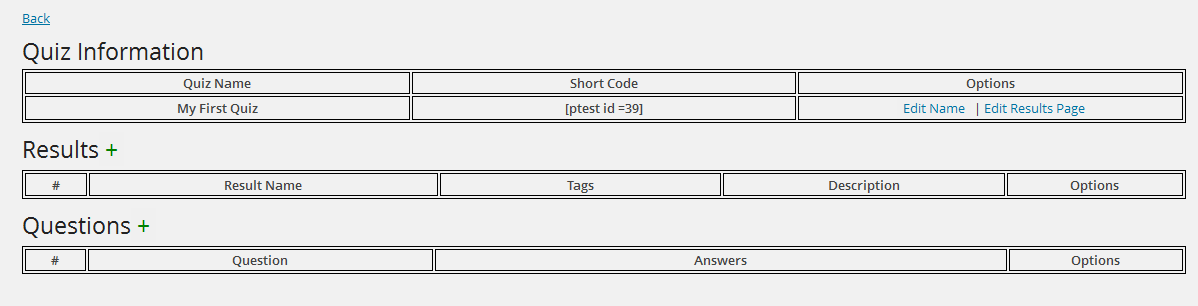
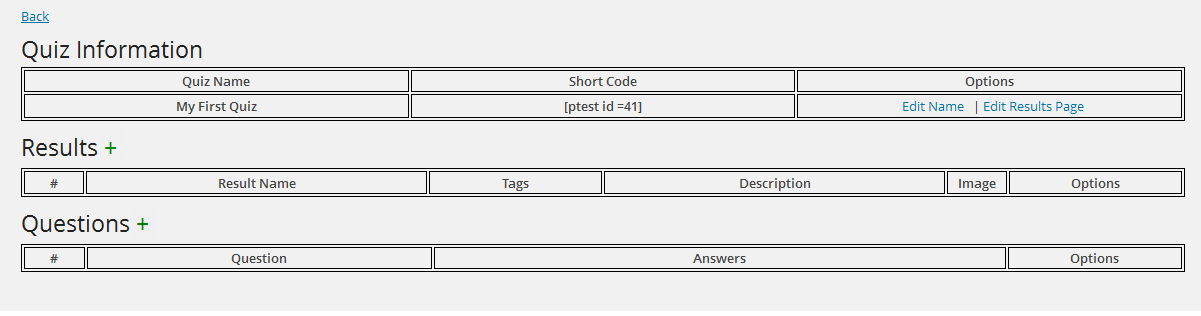
folder name changed to trpt-personality-test

Changed region(s): [[0.0, 0.4412, 0.9883, 0.9118], [0.0, 0.1176, 0.9883, 0.4118], [0.0, 0.0294, 0.0618, 0.0882]]

diff --git a/personality-test-admin.js b/personality-test-admin.js
@@ -1,3 +1,5 @@
+//Built by Matt from http://www.webmaster-source.com/2013/02/06/using-the-wordpress-3-5-media-uploader-in-your-plugin-or-theme/
+
 jQuery(document).ready(function($){
     var custom_uploader;
  

diff --git a/personality-test-help.php b/personality-test-help.php
@@ -1,3 +1,7 @@
+<?php
+	global $ptest_prefix;
+?>
+
 <script type = "text/javascript">
 	function addMargin(){
 		window.scrollTo(0, window.pageYOffset - 30);
@@ -24,11 +28,11 @@
 	<ol class = "ptest-help-ol">
 		<li>
 			<a name = "qi">Quick Introduction</a>
-			<p class = "ptest-help-ol-p">Welcome to Ptest, an easy to use interest and personality test creator. Select <a href = "<?php echo add_query_arg(array('page' => 'Quiz'), admin_url('admin.php'))?>" >Quiz List</a> if you want to get started right away. If not, continue to <a href = "#create">Creating a Quiz</a> to continue with this tutorial</p>
+			<p class = "ptest-help-ol-p">Welcome to TRPtest, an easy to use interest and personality test creator. Select <a href = "<?php echo add_query_arg(array('page' =>  $ptest_prefix . 'Quiz'), admin_url('admin.php'))?>" >Quiz List</a> if you want to get started right away. If not, continue to <a href = "#create">Creating a Quiz</a> to continue with this tutorial</p>
 		</li>
 		<li>
 			<a name = "create">Creating a Quiz</a>
-			<p class = "ptest-help-ol-p">Creating a quiz is simple. First, select <a href = "<?php echo add_query_arg(array('page' => 'Quiz'), admin_url('admin.php'))?>" >Quiz List</a> from the dropdown in the admin menu, or click the link. You will be taken to the quiz list screen. <img style = "width: 80%" src = "<?php echo plugins_url( "img/empty-quiz-list.png", __FILE__) ?>"></P>
+			<p class = "ptest-help-ol-p">Creating a quiz is simple. First, select <a href = "<?php echo add_query_arg(array('page' => $ptest_prefix . 'Quiz'), admin_url('admin.php'))?>" >Quiz List</a> from the dropdown in the admin menu, or click the link. You will be taken to the quiz list screen. <img style = "width: 80%" src = "<?php echo plugins_url( "img/empty-quiz-list.png", __FILE__) ?>"></P>
 			<p class = "ptest-help-ol-p">Select the <span class = "ptest-add-symbol">+</span> next to Quiz List to add a new quiz to your database. <div><img style = "width:80%" src = "<?php echo plugins_url("img/adding-a-quiz.png", __FILE__) ?>"></div></p>
 			<p class = "ptest-help-ol-p">Type in any name you want (you can change it later) and select Save. The quiz will be immediately added to your list of quizzes! If you are in any popup screen and do not want to make changes, you can just click outside of the popup to close it. To delete it, select delete. To add questions and results or to change its name, select <a href = "#modscreen">Modify</a>. <div><img style = "width:80%" src = "<?php echo plugins_url("img/added-quiz.png", __FILE__) ?>"></div></p>
 		</li>
@@ -40,14 +44,15 @@
 		<li>
 			<a name = "addr">Adding Results</a>
 			<p class = "ptest-help-ol-p">Select the <span class = "ptest-add-symbol">+</span> next to Results in order to add a result. <div><img style = "width:80%" src = "<?php echo plugins_url("img/add-a-result.png", __FILE__)?>"></div></p>
-			<p class = "ptest-help-ol-p">There are 3 inputs you need to fill out.
+			<p class = "ptest-help-ol-p">There are 4 inputs you need to fill out.
 				<ol class = "ptest-help-ol-p">
 					<li>Result Name: Result Name is the name of your result. For example, if you had a "Which Star Wars character are you?" personality test and you wanted one of the results to be Darth Vader, you would write Darth Vader as the name of this result.</li>
 					<li>Tags: Tags are a unique identifier that determine how the results will match up with the questions. If a tag in a result and a tag in a question match, then the value of the question will be added to that result. The result with the highest point value at the end of the quiz will be the result shown. If this doesn't make sense now, it will be explained more thoroughly in <a href = "#addq">Adding Questions</a>. Tags can be called anything you like, as only the quiz creator will be able to see them. The option to have multiple tags is there, but currently serves no purpose (it does in questions!), it will hopefully be used in a future build.
 					</li>
 					<li>Description: This is where you want to write what gets displayed under this result. The description will be displayed along with Result Name on completion of the quiz.</li>
+					<li>Image: An optional image that you can display along with your result. The image uploader is Wordpress's default image uploader. Simply select Upload Image and then choose the image you would like to view along with this result from the Media Library, or select Upload Files to upload a new image.</li>
 				</ol></p>
-			<p class = "ptest-help-ol-p">Once you have filled out all the inputs, select Save and the new result will be added to your quiz. Normally, you would not want the same result to show up every time, so adding a few more results is probably a good idea. You can add as many results as you want. Remember to make all the tags unique so the point values from questions get added to the correct result. To make changes to any result, you can select Edit. When you have finished adding results, head over to <a href = "#addq">Adding Questions</a></p>
+			<p class = "ptest-help-ol-p">Once you have filled out all the inputs, select Save and the new result will be added to your quiz. Normally, you would not want the same result to show up every time, so adding a few more results is probably a good idea. You can add as many results as you want. To view the image you've added to a result, click the thumbnail inside the image column and a popup will show your image. Remember to make all the tags unique so the point values from questions get added to the correct result. To make changes to any result, you can select Edit. When you have finished adding results, head over to <a href = "#addq">Adding Questions</a></p>
 		</li>
 		<li>
 			<a name = "addq">Adding Questions</a>
@@ -65,10 +70,11 @@
 		<li>
 			<a name = "trp">The Results Page</a>
 			<p class = "ptest-help-ol-p">The Results Page deals with some HTML, if you do not know HTML and are fine with how the default results page displays, skip to <a href = #atw">Adding the Quiz to Your Website</a>. Still here? Then click Edit Results Page up in the Quiz Information box on the Modify page. <div><img style = "width:80%" src = "<?php echo plugins_url("img/edit-results-page.png", __FILE__)?>"></div> </p>
-			<p class = "ptest-help-ol-p">Each quiz you make has its own results page, and its HTML is displayed here. The box is a giant input where you can write whatever HTML you want and it will show up as your results page after taking the test. There are a few shortcodes.
+			<p class = "ptest-help-ol-p">Each quiz you make has its own results page, and its HTML is displayed here. The box is a giant input where you can write whatever HTML you want and it will show up as your results page after taking the test. You can use the style attribute to style this page as normal. There are a few shortcodes.
 				<ol class = "ptest-help-ol-p">
 					<li>[result]: [result] is the name of your result, so if your winning result's name was Darth Vader, [result] would be replaced by Darth Vader when viewing the results page.
 					<li>[description]: [description] is the description of your result. Whatever you wrote for the result's description will replace [description] when viewing the results page.
+					<li>[imageurl]: [imageurl] is the url of the image you saved to the result. To use it, use the <img> tag and set the src equal to [imageurl]. You can style it by using the style attribute on the <img> tag.</li>
 				</ol></p>
 			<p class = "ptest-help-ol-p"><div><img style = "width:80%" src = "<?php echo plugins_url("img/editing-results-page.png", __FILE__)?>"></div></p>
 			<p class = "ptest-help-ol-p">When finished, select Save Changes and it will save your changes as the new Results Page. If you want to go back to your most recently saved results page, select Reset. However, be warned that once you confirm Reset, there is no way to return to your changes.</p>
@@ -80,6 +86,6 @@
 		</li>
 		<li>
 			<a name = "fi">Further Information</a>
-			<p class = "ptest-help-ol-p">If you want to make a suggestion or a request for new functionality, or you've found a bug and you'd like it fixed, or you just want someone to talk to, send us an email at admin@trurek.com, we'll do our best to respond! Thanks for using Ptest!</p>
+			<p class = "ptest-help-ol-p">If you want to make a suggestion or a request for new functionality, or you've found a bug and you'd like it fixed, or you just want someone to talk to, send us an email at admin@trurek.com, we'll do our best to respond! Thanks for using TRPtest!</p>
 		</li>
 </div>

diff --git a/personality-test.php b/personality-test.php
@@ -1,10 +1,10 @@
 <?php
 /* 
-	Plugin Name: Personality Test
+	Plugin Name: TRPtest
 	Description: Plugin for creating easily modifiable Personality, Interest, or Which Character are You? tests and quizzes.
-	Author: J. Levy and B. Bower
+	Author: TruRek
 	Version: 1.0 
-	Author URI: http://www.trurek.com
+	Author URI: WIP
 	*/  
 
 	
@@ -26,7 +26,7 @@
       
     function ptest_admin_actions() {  
 		global $ptest_prefix;
-        add_menu_page("Personality Test", "Ptest Dashboard", 'manage_options', $ptest_prefix . "Personality_Test", "ptest_admin");
+        add_menu_page("Personality Test", "TRPtest Dashboard", 'manage_options', $ptest_prefix . "Personality_Test", "ptest_admin");
     }  
     add_action('admin_menu', 'ptest_admin_actions');
 	
@@ -38,21 +38,22 @@
 	add_action('admin_menu', 'ptest_quiz_main_actions');
 	
 	function ptest_add_stylesheet(){
-		wp_register_style('personality-test-style', plugins_url('personality-test/css/personality-test-style.css'));
+		wp_register_style('personality-test-style', plugins_url('trpt-personality-test/css/personality-test-style.css'));
 		wp_enqueue_style('personality-test-style');
 	}
 	add_action('admin_enqueue_scripts', 'ptest_add_stylesheet');
 	
 	function ptest_add_frontend_stylesheet(){
-		wp_register_style('personality-test-frontend-style', plugins_url('personality-test/css/personality-test-frontend-style.css'));
+		wp_register_style('personality-test-frontend-style', plugins_url('trpt-personality-test/css/personality-test-frontend-style.css'));
 		wp_enqueue_style('personality-test-frontend-style');
 	}
 	add_action('wp_enqueue_scripts', 'ptest_add_frontend_stylesheet');
 	
 	function ptest_admin_scripts(){
-		if (isset($_GET['page']) && $_GET['page'] == 'Quiz'){
+		global $ptest_prefix;
+		if (isset($_GET['page']) && $_GET['page'] == $ptest_prefix . 'Quiz'){
 			wp_enqueue_media();
-			wp_register_script('personality-test-admin.js', plugins_url().'/personality-test/personality-test-admin.js', array('jquery'));
+			wp_register_script('personality-test-admin.js', plugins_url().'/trpt-personality-test/personality-test-admin.js', array('jquery'));
 			wp_enqueue_script('personality-test-admin.js');
 		}
 	}

diff --git a/personality-test-main.php b/personality-test-main.php
@@ -1,6 +1,6 @@
 <div class = 'wrap'>
-	<h2>Ptest Dashboard</h2>
+	<h2>TRPtest Dashboard</h2>
 	<h3>Version 1.0</h3>
 	<h3>Getting Started</h3>
-		<p>Welcome to Ptest. If you think you can figure out everything on the fly, select <a href = "<?php global $ptest_prefix; echo add_query_arg(array('page' => $ptest_prefix . 'Quiz'), admin_url('admin.php'))?>" >Quiz List</a>. If you'd like a walkthrough or want to see some samples, select <a href = "<?php echo add_query_arg(array('page' => $ptest_prefix . 'Help'), admin_url('admin.php'))?>">Help</a>. The <span class = "ptest-add-symbol">+</span> icons are all buttons, select them to see what they do, and simply click outside the popup to exit out of it.</p>
+		<p>Welcome to TRPtest. If you think you can figure out everything on the fly, select <a href = "<?php global $ptest_prefix; echo add_query_arg(array('page' => $ptest_prefix . 'Quiz'), admin_url('admin.php'))?>" >Quiz List</a>. If you'd like a walkthrough or want to see some samples, select <a href = "<?php echo add_query_arg(array('page' => $ptest_prefix . 'Help'), admin_url('admin.php'))?>">Help</a>. The <span class = "ptest-add-symbol">+</span> icons are all buttons, select them to see what they do, and simply click outside the popup to exit out of it.</p>
 </div>
